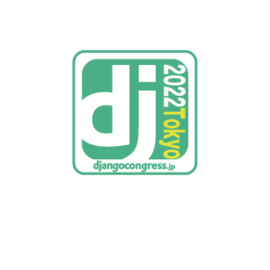
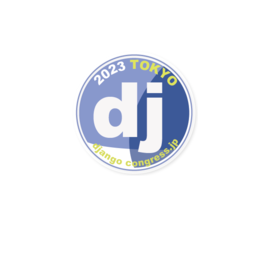
Fixed old 2022 images on 2023 site.

Changed region(s): [[0.2667, 0.1778, 0.7407, 0.6519]]

diff --git a/_templates/index/_organizer.html b/_templates/index/_organizer.html
@@ -2,7 +2,7 @@
   <div class="row justify-content-md-center">
     <div class="col-md-3 text-center section-partners-partner">
       <a href="https://djangoproject.jp/" target="_blank">
-        <img src="static/img/2022dj.png"
+        <img src="static/img/2023dj.png"
              alt="django-ja Logo"
              class="img-responsive align-middle">
       </a>
